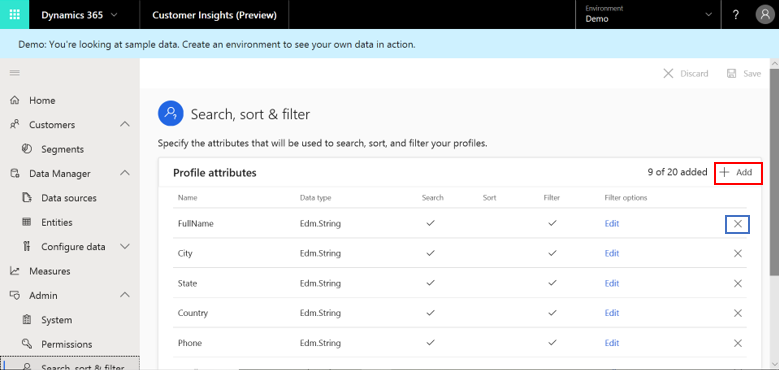
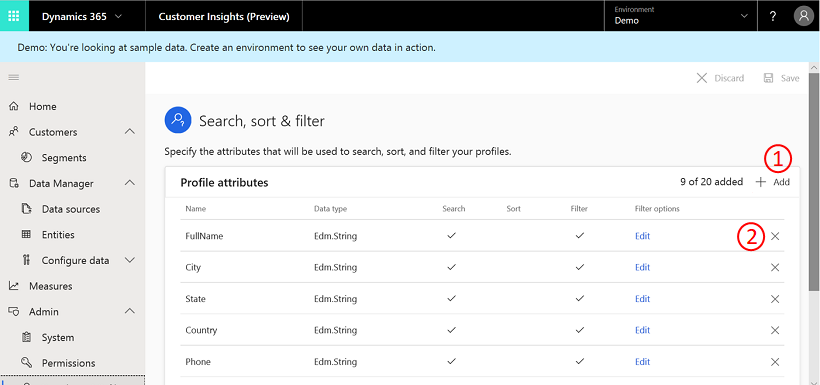
image work

diff --git a/ai-docs/customer-insights/pm-manage-search.md b/ai-docs/customer-insights/pm-manage-search.md
@@ -24,8 +24,6 @@ manager: "kvivek"
 
 The end result of the data configuration process is the creation of the Customer Profile entity that equips you with a unified view into your total customer base. At the same time, there are cases in which you might want to quickly pull information on a specific customer or a group of customers. That can be done via the **Search** and **Filter** capabilities on the **Profiles** page.
 
-// 1 <!-- replace red with "1" and blue with "2") -->
-
 > [!div class="mx-imgBorder"] 
 > ![](media/search-filter.png "Search filter")
 
@@ -51,9 +49,7 @@ You will see the **Search, sort & filter** page. In the following example, many 
 > [!div class="mx-imgBorder"] 
 > ![](media/search-sort-filter.png "Search sort filter")
 
-You can always add more attributes via **Add** (shown in red in the following example). You can also remove any selected attributes using the button shown in blue.
-
-// 2 <!-- replace red with "1" and blue with "2"-->
+You can always add more attributes via **Add** (shown in #1 in the following example). You can also remove any selected attributes using the button shown in #2.
 
 > [!div class="mx-imgBorder"] 
 > ![](media/search-sort-filter-add.png "Add attribute")
@@ -103,8 +99,6 @@ Lastly, the following image shows the **Edit** panel that opens for date-type at
 In this panel, you can specify the intervals included on the filter panel, as well as the order policy by which they will be organized.
 
 Save your selections using **Save** (shown in red in the following image). Select **Run** (shown in blue) once you are ready to apply your settings. Once processing has completed, your definitions now dictate how other users can search and filter for customers using the **Profiles** page.
-
-// 3 <!-- replace blue with "1" and red with "2". Also mark the "Discard Changes" button with "3". Lastly, please blur the row we have in the table. Thanks!-->
 
 > [!div class="mx-imgBorder"] 
 > ![](media/search-sort-filter-save-run.png "Save and Run")
